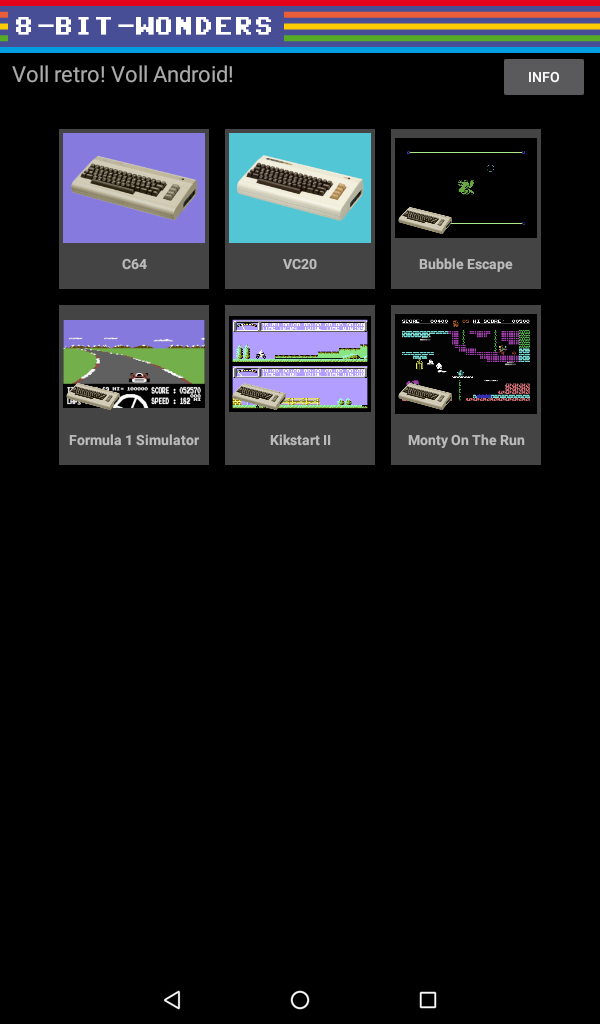
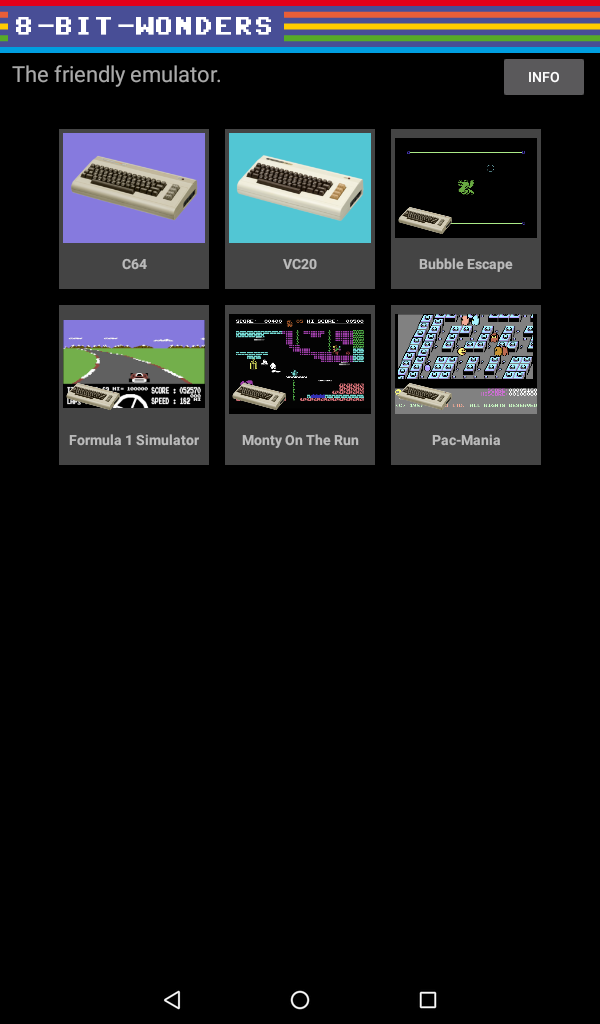
Added some resources

Changed region(s): [[0.66, 0.2812, 0.9, 0.4375], [0.36, 0.3125, 0.63, 0.4375], [0.03, 0.0625, 0.39, 0.0938]]

diff --git a/manual-de.html b/manual-de.html
@@ -125,13 +125,12 @@ a {
 }
 
 </style>
-<link rel="stylesheet" href="https://cdnjs.cloudflare.com/ajax/libs/font-awesome/4.7.0/css/font-awesome.min.css">
 </head>
 <body class="article toc2 toc-left">
 <div id="header">
 <h1>8-Bit-Wonders</h1>
 <div id="toc" class="toc2">
-<div id="toctitle">Inhalt</div>
+<div id="toctitle">Table of Contents</div>
 <ul class="sectlevel1">
 <li><a href="#_voll_retro_voll_android">Voll retro! Voll Android!</a></li>
 <li><a href="#_erste_schritte">Erste Schritte</a>
@@ -166,14 +165,7 @@ a {
 <li><a href="#_alle_einstellungen">Alle Einstellungen</a>
 <ul class="sectlevel2">
 <li><a href="#_tastatur_2">Tastatur</a></li>
-<li><a href="#_joystick">Joystick</a>
-<ul class="sectlevel3">
-<li><a href="#_virtueller_touch_joystick">Virtueller Touch Joystick</a></li>
-<li><a href="#_virtuelles_lenkrad_auf_dem_touchscreen">Virtuelles Lenkrad auf dem Touchscreen</a></li>
-<li><a href="#_tastaturbelegung_a_und_tastaturbelegung_b">Tastaturbelegung A und Tastaturbelegung B</a></li>
-<li><a href="#_hardwarejoysticks">Hardwarejoysticks</a></li>
-</ul>
-</li>
+<li><a href="#_joystick">Joystick</a></li>
 <li><a href="#_geräte">Geräte</a></li>
 <li><a href="#_video">Video</a></li>
 <li><a href="#_audio">Audio</a></li>
@@ -183,7 +175,7 @@ a {
 <ul class="sectlevel2">
 <li><a href="#_bubble_escape">Bubble Escape</a></li>
 <li><a href="#_formula_1_simulator">Formula 1 Simulator</a></li>
-<li><a href="#_kikstart_2">Kikstart 2</a></li>
+<li><a href="#_pac_mania">Pac-Mania</a></li>
 <li><a href="#_monty_on_the_run">Monty On The Run</a></li>
 </ul>
 </li>
@@ -656,131 +648,12 @@ oder WASD als Joystick verwenden. Du kannst sie dann aber nicht mehr für die Ta
 </div>
 </div>
 <div class="sect2">
-<h3 id="_kikstart_2">Kikstart 2</h3>
+<h3 id="_pac_mania">Pac-Mania</h3>
 <div class="paragraph">
-<p>Erlebe noch mehr vom Nervenkitzeln des Dirtbike-Fahrens in dieser neuen, verbesserten Action-Simulation für ein oder zwei Spieler. Gegen die Uhr führst du deinen Fahrer über 24 verschiedene Parcours, achten sorgfältig auf die zahlreichen Gefahren und Hindernisse, die auf dich zukommen.
-Dazu gehören:</p>
-</div>
-<div class="ulist">
-<ul>
-<li>
-<p>Sprungbretter: Sie werden dich in die Luft werfen, du kannst das verhindern, indem du den Feuerknopf gedrückt hältst.</p>
-</li>
-<li>
-<p>Stufen und Picknicktische: du musst über diese springen!</p>
-</li>
-<li>
-<p>Holzrampen, Sand, Rohre, Ziegelwände, Bildschirmwände und Tore: mach langsam!</p>
-</li>
-<li>
-<p>Reifen, Hecken und Fässer - Fahre schnell drüber, da es gefährlich ist zu springen.</p>
-</li>
-<li>
-<p>Spikes - Vermeide sie diese um jeden Preis - du wurdest gewarnt!</p>
-</li>
-<li>
-<p>Schlamm - Achte auf schlammige Stellen, da sie dich zu Fall bringen werden.</p>
-</li>
-</ul>
+<p>Pac-Mania ist ein Solo-Spiel. Der diesmal mit fabelhafter Sprungkraft ausgerüstete Punktemampfer Pac-Man wird durch eine bizarre Welt 3-dimensionaler Irrgärten manövriert, die aus "Block Town", "Pac-Man&#8217;s Park" und anderen Örtlichkeiten besteht. Zunächst kann die Spielstufe 1, 2 oder 4 gewählt werden, je höher desto schwieriger die Herausforderung. Sinn und Ziel des Unternehmens ist es auch in diesen Spiel alle Punkte und Energiepillen zu schlucken und gleichzeitig den Gespenstern, die Verstärkung von "Sue" und "Funky" erhalten haben, aus dem Weg zu gehen. Doch auch hier gilt: Wenn es zur rechten Zeit gelingt eine Pille zu schlucken, ändern die Gespenster ihre Farbe und aus Verfolgern werden Verfolgte. Pac hat dazu noch zwei spezielle Kraftspender, eine grüne und eine rote Pille. Die grüne verleiht ihm über kurze Zeit größeres Tempo und die rote verdoppelt seine Punktezahl. Wenn er Glück hat, kann er sich auch an Obst gütlich tun, was weitere Punkte einbringt.</p>
 </div>
 <div class="paragraph">
-<p><strong>Spielablauf</strong></p>
-</div>
-<div class="paragraph">
-<p>Es ist möglich, einen der 24 verschiedenen Parcours einzugeben, die als A-X aufgelistet sind, und fünf auszuwählen, die gleichzeitig gespielt werden sollen. Falls du runterfällst (und das wirst du), wird der Computer dich in der nächsten geeigneten Position neu starten. In der Zwischenzeit zählt der Timer mit der doppelten Geschwindigkeit der normalen Geschwindigkeit.</p>
-</div>
-<div class="paragraph">
-<p><strong>STEUERUNG</strong></p>
-</div>
-<div class="ulist">
-<ul>
-<li>
-<p>Joystick oder Tastatur</p>
-<div class="ulist">
-<ul>
-<li>
-<p>Spieler 1 verwendet einen Joystick in Port eins oder Tastatur.</p>
-</li>
-<li>
-<p>Spieler 2 verwendet Joystick in Port 2.</p>
-</li>
-</ul>
-</div>
-</li>
-<li>
-<p>Cursor:</p>
-<div class="ulist">
-<ul>
-<li>
-<p>Links: Bremsen</p>
-</li>
-<li>
-<p>Rechts: Bremsen</p>
-</li>
-<li>
-<p>Oben: Wheelie</p>
-</li>
-<li>
-<p>Feuer: Springen</p>
-</li>
-</ul>
-</div>
-</li>
-<li>
-<p>Tastatur:</p>
-<div class="ulist">
-<ul>
-<li>
-<p>Control: Bremsen</p>
-</li>
-<li>
-<p>2: Beschleunigen</p>
-</li>
-<li>
-<p>1:  Wheelie</p>
-</li>
-<li>
-<p>Leertaste: Springen</p>
-</li>
-<li>
-<p>Q: Musik an- und Ausschalten</p>
-</li>
-<li>
-<p>Restore: Das Spiel neu starten.</p>
-</li>
-</ul>
-</div>
-</li>
-</ul>
-</div>
-<div class="paragraph">
-<p><strong>Icons nach dem Start</strong></p>
-</div>
-<div class="paragraph">
-<p>Verwende die Cursortasten, um ein Symbol auszuwählen, und drücke RETURN oder FIRE, um es auszuwählen.
-Von links nach rechts sind die Symbole:</p>
-</div>
-<div class="ulist">
-<ul>
-<li>
-<p>Spiel starten</p>
-</li>
-<li>
-<p>Highscore-Tabelle anzeigen</p>
-</li>
-<li>
-<p>Zum Editor wechseln</p>
-</li>
-<li>
-<p>Option für einen oder zwei Spieler</p>
-</li>
-<li>
-<p>Den Namen des Spielers eingeben</p>
-</li>
-</ul>
-</div>
-<div class="paragraph">
-<p>Drücke die entsprechende Taste, um die Kurse auszuwählen, die du spielen möchtest.</p>
+<p>Drücke den Feuerknopf, um über die Geister zu springen.</p>
 </div>
 </div>
 <div class="sect2">

diff --git a/manual-en.html b/manual-en.html
@@ -131,7 +131,7 @@ a {
 <div id="header">
 <h1>8-Bit-Wonders</h1>
 <div id="toc" class="toc2">
-<div id="toctitle">Inhalt</div>
+<div id="toctitle">Content</div>
 <ul class="sectlevel1">
 <li><a href="#_full_retro_full_android">Full Retro! Full Android!</a></li>
 <li><a href="#_getting_started">Getting Started</a>
@@ -183,7 +183,7 @@ a {
 <ul class="sectlevel2">
 <li><a href="#_bubble_escape">Bubble Escape</a></li>
 <li><a href="#_formula_1_simulator">Formula 1 Simulator</a></li>
-<li><a href="#_kikstart_2">Kikstart 2</a></li>
+<li><a href="#_pac_mania">Pac-Mania</a></li>
 <li><a href="#_monty_on_the_run">Monty On The Run</a></li>
 </ul>
 </li>
@@ -605,87 +605,19 @@ or Keys:</p>
 </div>
 </div>
 <div class="sect2">
-<h3 id="_kikstart_2">Kikstart 2</h3>
+<h3 id="_pac_mania">Pac-Mania</h3>
 <div class="paragraph">
-<p>Experience yet more of the thrills ami spills of dirt bike riding in this new improved ail action simulation designed for one or two players. Against the clock guide your rider over 24 different courses, keeping a careful lookout for the numerous hazards and
-obstacles which will come your way. These include:</p>
-</div>
-<div class="ulist">
-<ul>
-<li>
-<p>Springboards: They will bounce you into the air, although you can prevent this from happening by holding down the fire button.</p>
-</li>
-<li>
-<p>Steps and picnic tables- You will have to jump over these!</p>
-</li>
-<li>
-<p>Wooden ramps, sand, pipes, brick walls, screen walls and gates - Go slowly</p>
-</li>
-<li>
-<p>Tyres, hedges and barrels- Go quickly over these as it Is dangerous to jump.</p>
-</li>
-<li>
-<p>Spikes - Avoid these at ail costs - you have been warned!</p>
-</li>
-<li>
-<p>Mud- Watch out for muddy patches as they will stow you down.</p>
-</li>
-</ul>
+<p>Pac-Mania is a variation on the game Pac-Man.
+You need to guide Pac-Man around a maze and eat all of the dots on the board to proceed on to the next round.
+Numerous, multi-colored ghosts also roam the maze trying to stop you.
+If you eat one of the power pellets in the maze, the ghosts will temporarily turn blue and run from you.
+Pac-Man can earn bonus points by eating the ghosts when they are in this state.
+The maze is now shown in isometric perspective and is larger than the screen which will scroll to follow the action.
+To help get out of tight spots, Pac-Man can now jump.
+But be careful, because some of the ghosts have learned this trick as well and you could end up in a mid-air collision!</p>
 </div>
 <div class="paragraph">
-<p>GAMEPLAY</p>
-</div>
-<div class="paragraph">
-<p>It is possible to enter any of the 24 different courses which are listed from A-X, and select five to play at one time. Should you fall off (and you will!), the computer will restart you in the next convenient position. In the meantime, the timer will count at twice the normal Speed.</p>
-</div>
-<div class="paragraph">
-<p>CONTROLS</p>
-</div>
-<div class="ulist">
-<ul>
-<li>
-<p>Joystick or Keyboard</p>
-</li>
-<li>
-<p>Player 1 uses a joystick in port one or keyboard.</p>
-</li>
-<li>
-<p>Player 2 uses joystick in port 2.</p>
-</li>
-<li>
-<p>Left - Brake CTRL</p>
-</li>
-<li>
-<p>Right - Accelerate 2</p>
-</li>
-<li>
-<p>Up - Wheelie i</p>
-</li>
-<li>
-<p>Fire - Jump Space</p>
-</li>
-<li>
-<p>Fire - Start Restore</p>
-</li>
-<li>
-<p>Turns off the music during the gams
-ICONS</p>
-</li>
-<li>
-<p>Use the cursor keys to choose an icon and press RETURN or FIRE to select it. From left to right, the icons are :</p>
-</li>
-<li>
-<p>Go, or start game; View high score table ; Go to Editor ; Option of one or two players: Enter player&#8217;s name; Press the appropriate key to select the courses you wish to play.</p>
-</li>
-</ul>
-</div>
-<div class="paragraph">
-<p>THE EDITOR</p>
-</div>
-<div class="paragraph">
-<p>When you enter the Editor option, you will be given a new list of Icons, these are: Go back to main screen; Save to Tape; Load from Tape; Save to disk; Load from disk. Save to computer- This will replace one of the courses With a course created using the Editor.
-Edit- this allows you to create a new course or modify an existing one. Information - this lists the available obstacles and their corresponding letters. Print-' will print the selected object on the course.
-and scrolls through the screen. + and- inserts or deletes sections of the course one character at a time. New obstacles, for example hills, can be created by joining together existing objects and deleting the gaps.</p>
+<p>Press fire button to jump.</p>
 </div>
 </div>
 <div class="sect2">

diff --git a/manual.css b/manual.css
@@ -1,0 +1,34 @@
+/* Asciidoctor default stylesheet | MIT License | https://asciidoctor.org */
+
+/*@import url(https://cdn.jsdelivr.net/gh/asciidoctor/asciidoctor@2.0/data/stylesheets/asciidoctor-default.css); /* Default asciidoc style framework - important */
+*/
+
+/* CUSTOMISATIONS */
+/* Change the values in root for quick customisation. If you want even more fine grain... venture further. */
+
+:root{
+--maincolor:#000000;
+--primarycolor:#cccccc;
+--secondarycolor:#998cccccc;
+--tertiarycolor:#cccccce7;
+--linkcolor:#ffcc00;
+--linkcoloralternate:#ffcc00;
+--white:#cccccc;
+}
+
+/* Text styles */
+
+body{font-family: Verdana, Helvetica, sans-serif;background-color: #000000 ;color:#cccccc;}
+
+/* h1{color:var(--primarycolor) !important;font-family:Verdana, Helvetica,sans-serif;} */
+
+h1 {visibility: hidden; height:1px;}
+h2,h3,h4,h5,h6{ !important;font-family:Verdana, Helvetica,sans-serif;}
+.title{ !important;font-family:Verdana, Helvetica,sans-serif;font-style: normal; font-weight: normal;}
+p{font-family: Verdana, Helvetica,sans-serif ! important}
+#toc, #toc2 #toctitle {display:none; }
+blockquote{color:#e0e0e0 !important}
+.content {color:#c9c5f6ff;!important}
+a:link a:hover a:focus{color:#c9c5f6ff;font-style: normal;}
+p a {color:#c9c5f6ff;font-style: normal;}
+

diff --git a/README.md b/README.md
@@ -1,1 +1,1 @@
-This project contains the user manual and other stuff like that for [8-Bit Wonders](https://github.com/eightbitwonders/app).
+This project contains the user manual and other stuff like that for https://github.com/eightbitwonders/app
